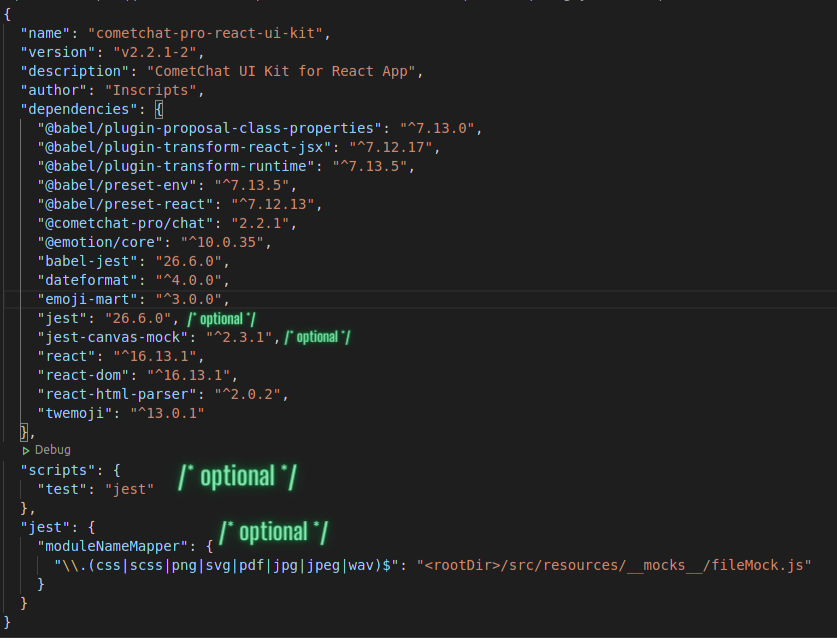
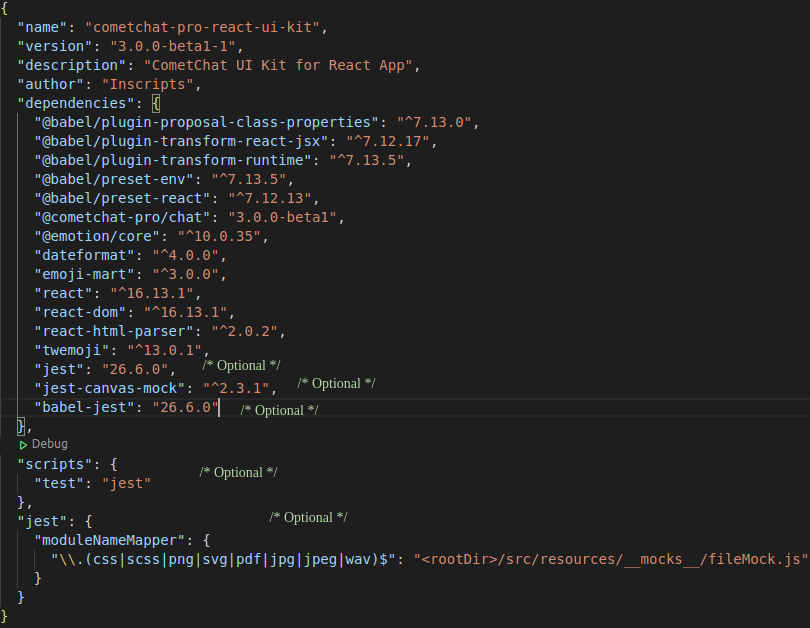
v3.0.0-beta1-1

Changed region(s): [[0.0, 0.0, 1.0, 0.9984], [0.216, 0.7261, 0.3704, 0.7866]]

diff --git a/CometChatWorkspace/src/components/Messages/CometChatMessageList/index.js b/CometChatWorkspace/src/components/Messages/CometChatMessageList/index.js
@@ -149,15 +149,7 @@ class CometChatMessageList extends React.PureComponent {
 
         //if the sender of the message is not the loggedin user, mark it as read.
         if (message.getSender().getUid() !== this.loggedInUser.getUid() && !message.getReadAt()) {
-
-          if (message.getReceiverType() === CometChat.RECEIVER_TYPE.USER) {
-
-            CometChat.markAsRead(message.getId().toString(), message.getSender().getUid(), message.getReceiverType());
-
-          } else if (message.getReceiverType() === CometChat.RECEIVER_TYPE.GROUP) {
-
-            CometChat.markAsRead(message.getId().toString(), message.getReceiverId(), message.getReceiverType());
-          }
+          CometChat.markAsRead(message);
         }
 
         this.props.actionGenerated("messageRead", message);
@@ -329,7 +321,7 @@ class CometChatMessageList extends React.PureComponent {
       }
 
     } else if (message.getReceiverType() === CometChat.RECEIVER_TYPE.GROUP
-      && message.getReceiver().guid === this.props.item.guid) {
+      && message.getReceiverId() === this.props.item.guid) {
       //not implemented
     }
 
@@ -358,18 +350,8 @@ class CometChatMessageList extends React.PureComponent {
 
   markMessageAsRead = (message, type) => {
 
-    if (type === "user") {
-
-      if (!message.getReadAt()) {
-        CometChat.markAsRead(message.getId().toString(), message.getSender().uid, message.getReceiverType());
-      }
-
-    } else if (type === "group") {
-
-      if (!message.getReadAt()) {
-        CometChat.markAsRead(message.getId().toString(), message.getReceiverId(), message.getReceiverType());
-      }
-
+    if (!message.getReadAt()) {
+      CometChat.markAsRead(message);
     }
   }
 
@@ -522,10 +504,10 @@ class CometChatMessageList extends React.PureComponent {
     
     if (this.props.type === 'group' 
     && message.getReceiverType() === 'group'
-    && message.getReceiver().guid === this.props.item.guid) {
+    && message.getReceiverId() === this.props.item.guid) {
 
       // if(!message.getReadAt()) {
-      //   CometChat.markAsRead(message.getId().toString(), message.getReceiverId(), message.getReceiverType());
+      //   CometChat.markAsRead(message);
       // }
       
       this.props.actionGenerated("groupUpdated", message, key, group, options);

diff --git a/CometChatWorkspace/src/components/Messages/CometChatMessageHeader/index.js b/CometChatWorkspace/src/components/Messages/CometChatMessageHeader/index.js
@@ -173,15 +173,28 @@ class CometChatMessageHeader extends React.Component {
         
         if (this.props.type === "group" && this.props.type === item.receiverType && this.props.item.guid === item.receiverId) {
 
-          const typingText = `${item.sender.name} ${Translator.translate("IS_TYPING", this.props.lang)}`;
-          this.setState({ status: typingText });
-          this.props.actionGenerated("showReaction", item);
+          if (item.hasOwnProperty("metadata") && item.metadata && item.metadata.hasOwnProperty("type") && item.metadata.type === enums.LIVE_REACTION_KEY) {
+
+            this.props.actionGenerated("showReaction", item);
+
+          } else {
+
+            const typingText = `${item.sender.name} ${Translator.translate("IS_TYPING", this.props.lang)}`;
+            this.setState({ status: typingText });
+          }
 
         } else if (this.props.type === "user" && this.props.type === item.receiverType && this.props.item.uid === item.sender.uid) {
 
-          const typingText = `${Translator.translate("TYPING", this.props.lang)}`;
-          this.setState({ status: typingText });
-          this.props.actionGenerated("showReaction", item);
+          if (item.hasOwnProperty("metadata") && item.metadata && item.metadata.hasOwnProperty("type") && item.metadata.type === enums.LIVE_REACTION_KEY) {
+
+            this.props.actionGenerated("showReaction", item);
+
+          } else {
+
+            const typingText = `${Translator.translate("TYPING", this.props.lang)}`;
+            this.setState({ status: typingText });
+          }
+
         }
         
         break;

diff --git a/CometChatWorkspace/src/components/Groups/CometChatGroupList/index.js b/CometChatWorkspace/src/components/Groups/CometChatGroupList/index.js
@@ -369,12 +369,7 @@ class CometChatGroupList extends React.PureComponent {
   markMessagesRead = (message) => {
 
     if (!(message.getReadAt() || message.getReadByMeAt())) {
-
-      if (message.getReceiverType() === 'user') {
-        CometChat.markAsRead(message.getId().toString(), message.getSender().getUid(), message.getReceiverType());
-      } else {
-        CometChat.markAsRead(message.getId().toString(), message.getReceiverId(), message.getReceiverType());
-      }
+      CometChat.markAsRead(message);
     }
   }
 

diff --git a/README.md b/README.md
@@ -95,7 +95,7 @@ To install React UI Kit, you need to first register on CometChat Dashboard. <a h
 ### iii. Add the CometChat Dependency
 
 ```javascript
-  npm install @cometchat-pro/chat@2.2.1 --save
+  npm install @cometchat-pro/chat@3.0.0-beta1 --save
 ```
 
 <br/>
@@ -158,7 +158,7 @@ CometChat.login(uid, authKey).then(
 
 ## 3. Add UI Kit to your project
 
-* Clone this repository `git clone https://github.com/cometchat-pro/cometchat-pro-react-ui-kit.git`
+* Clone this repository `git clone https://github.com/cometchat-pro/cometchat-pro-react-ui-kit.git -b v3`
 * Copy the cloned repository to your source folder
 
 <img align="center" width="auto" height="auto" src="./Screenshots/add-ui-kit.png">
@@ -197,13 +197,13 @@ Using the **CometChatUI** component, you can launch a fully functional chat appl
 
 # Checkout our sample app
 
-Visit our [React sample app](https://github.com/cometchat-pro/javascript-react-chat-app) repo to run the React sample app.
+Visit our [React sample app](https://github.com/cometchat-pro/javascript-react-chat-app/tree/v3) repo to run the React sample app.
 
 ---
 
 # Troubleshooting
 
-- To read the full documentation on UI Kit integration visit our [Documentation](https://prodocs.cometchat.com/docs/react-ui-kit).
+- To read the full documentation on UI Kit integration visit our [Documentation](https://prodocs.cometchat.com/v3.0-beta/docs/react-ui-kit).
 
 - Facing any issues while integrating or installing the UI Kit please connect with us via real time support present in <a href="https://app.cometchat.com/" target="_blank">CometChat Dashboard.</a>
 
@@ -231,4 +231,4 @@ Contact us via real time support present in [CometChat Dashboard](https://app.co
 
 ---
 
-This project uses the following [license](https://github.com/cometchat-pro/cometchat-pro-react-ui-kit/blob/master/LICENSE).
+This project uses the following [license](https://github.com/cometchat-pro/cometchat-pro-react-ui-kit/blob/v3/LICENSE).
